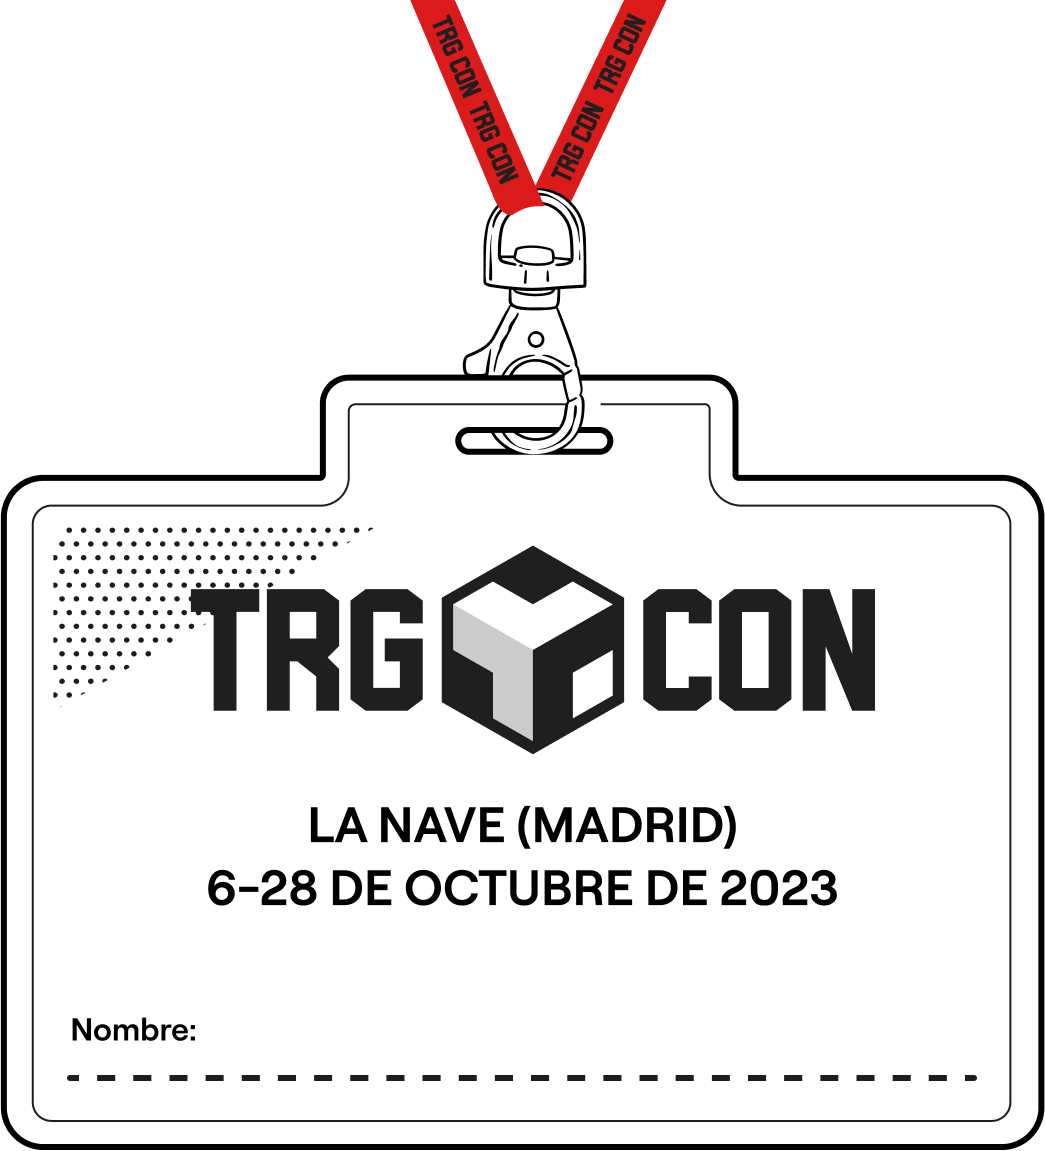
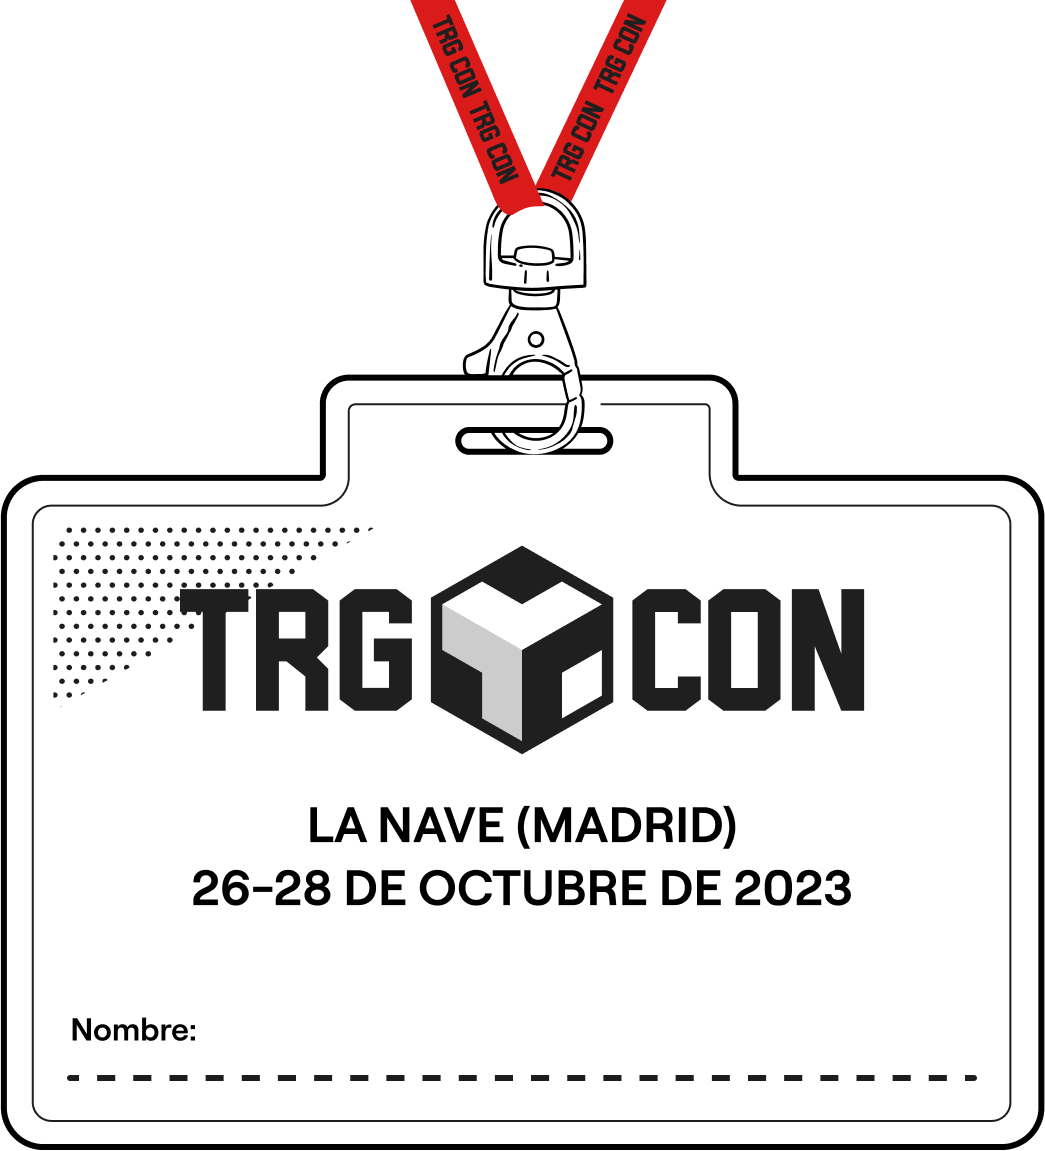
correxida data na acreditación, cambiado o comportamento dos nomes

Changed region(s): [[0.1531, 0.4865, 0.8574, 0.669], [0.1837, 0.6994, 0.8268, 0.7906], [0.49, 0.4561, 0.5206, 0.4865]]

diff --git a/js/components/name.js b/js/components/name.js
@@ -201,9 +201,10 @@ const surnames = [
 class Name extends HTMLElement {
   connectedCallback() {
     const strings = [];
-    for (let n = 0; n < 1000; n++) {
+    for (let n = 0; n < 2; n++) {
       strings.push(`${getItem(names)} ${getItem(surnames)}`);
     }
+    strings.push("TU NOMBRE");
 
     this.typed = new Typed(this, {
       strings,
@@ -211,7 +212,6 @@ class Name extends HTMLElement {
       backSpeed: 50,
       backDelay: 2000,
       startDelay: 1000,
-      loop: true,
     });
   }
 }
